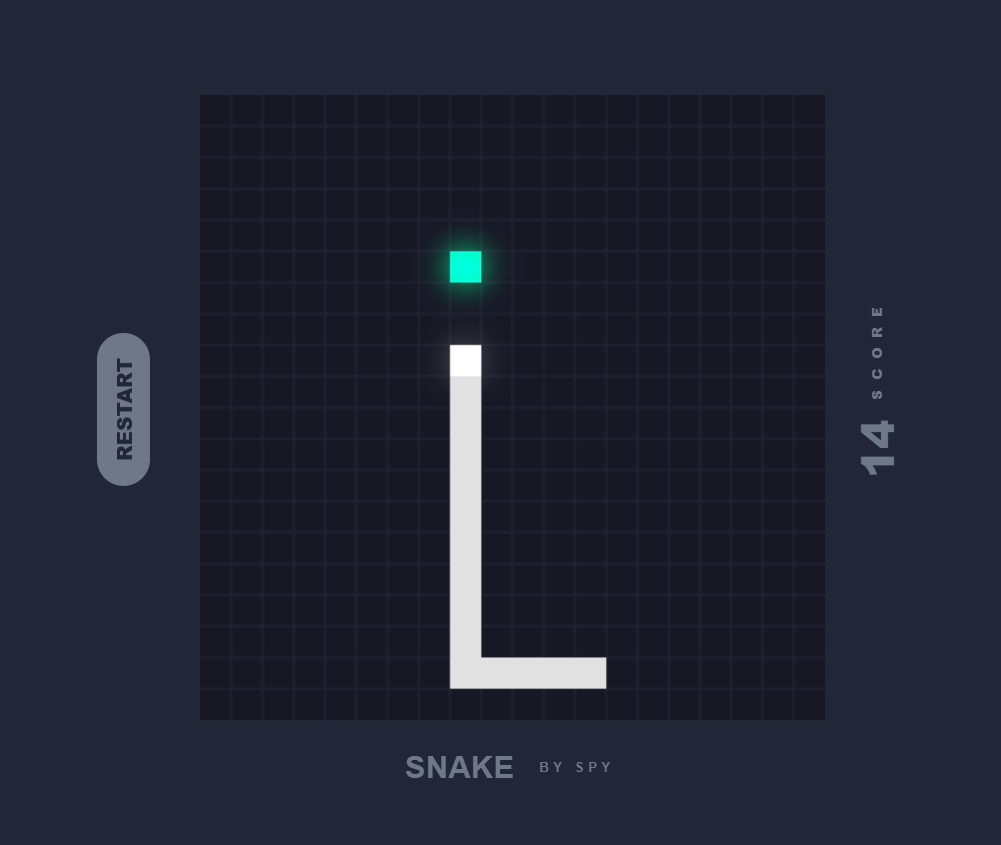
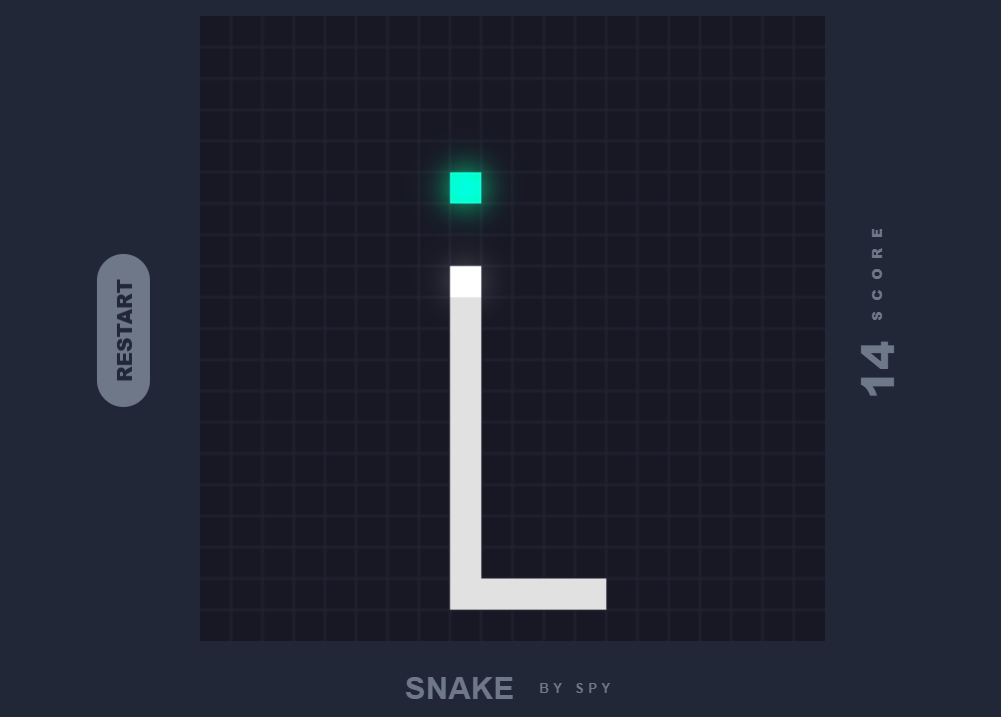
New_V1

diff --git a/JS/python-projects.js b/JS/python-projects.js
@@ -602,6 +602,95 @@ done()
         `,
         images: ["assets/project/python.14.png"]
     },
+    {
+        id: 15,
+        name: "Map Graph",
+        description: "An automation script using Python's os and shutil modules to organize files. This project automates repetitive file management tasks, improving productivity.",
+        codeSnippet: `
+
+import plotly.express as px
+
+country = input("Enter the country name: ")
+data = {
+    'Country' : [country],
+    'Value' : [100]
+}
+
+fig = px.choropleth(data, locations='Country', locationmode='country names',
+color='Value', color_continuous_scale='Inferno',
+title=f'Choropleth Map for {country}')
+fig.show()
+
+        `,
+        images: ["assets/project/python.15.png"]
+    },
+    {
+        id: 16,
+        name: "Calender",
+        description: "An automation script using Python's os and shutil modules to organize files. This project automates repetitive file management tasks, improving productivity.",
+        codeSnippet: `
+
+import calendar
+from rich.console import Console
+from rich.table import Table
+
+def colorful_calendar(year):
+    console = Console()
+    months = [calendar.monthcalendar(year, m) for m in range(1, 13)]
+    
+    for month in range(12):
+        month_name = calendar.month_name[month + 1]
+        
+        table = Table(title=f"[bold cyan]{month_name} \ {year}[/bold cyan]", show_lines=True)
+        table.add_column("Mon", justify="center", style="green")
+        table.add_column("Tue", justify="center", style="green")
+        table.add_column("Wed", justify="center", style="green")
+        table.add_column("Thu", justify="center", style="green")
+        table.add_column("Fri", justify="center", style="green")
+        table.add_column("Sat", justify="center", style="red")
+        table.add_column("Sun", justify="center", style="red")
+        
+        for week in months[month]:
+            table.add_row(*[str(day) if day != 0 else "" for day in week])
+        console.print(table)
+        console.print("\n")
+
+colorful_calendar(2025)    
+
+        `,
+        images: ["assets/project/python.16.1.png","assets/project/python.16.2.png"]
+    },
+    {
+        id: 17,
+        name: "Voice and Text Wishing",
+        description: "An automation script using Python's os and shutil modules to organize files. This project automates repetitive file management tasks, improving productivity.",
+        codeSnippet: `
+
+
+import pyfiglet, pyttsx3, random, time
+from rich.console import Console
+from rich.text import Text
+
+console = Console()
+diwali_fronts = ["slant", "big", "ghost", "doom", "larry3d", "3-d", "standard"]  
+
+front = random.choice(diwali_fronts)
+art = pyfiglet.figlet_format("  Coder!!  ", font=front)
+console.print(art, style="bold orange_red1")
+
+pumpkin = """
+        ===================================
+"""
+
+console.print(Text(pumpkin, style="bold orange1"))
+engine = pyttsx3.init()
+engine.setProperty('rate', 150)
+engine.say("Happy Diwali! Wishing you a spooky and fun-filled day!")
+engine.runAndWait()
+
+        `,
+        images: ["assets/project/python.17.png"]
+    },
 ];
 
 // Function to create project elements

diff --git a/CSS/style.css b/CSS/style.css
@@ -1007,7 +1007,7 @@ h3.my-profession {
 }
 
 .project-gallery img {
-    width: 500px;
+    width: auto;
     height: 400px;
     object-fit: cover;
     border-radius: 8px;
